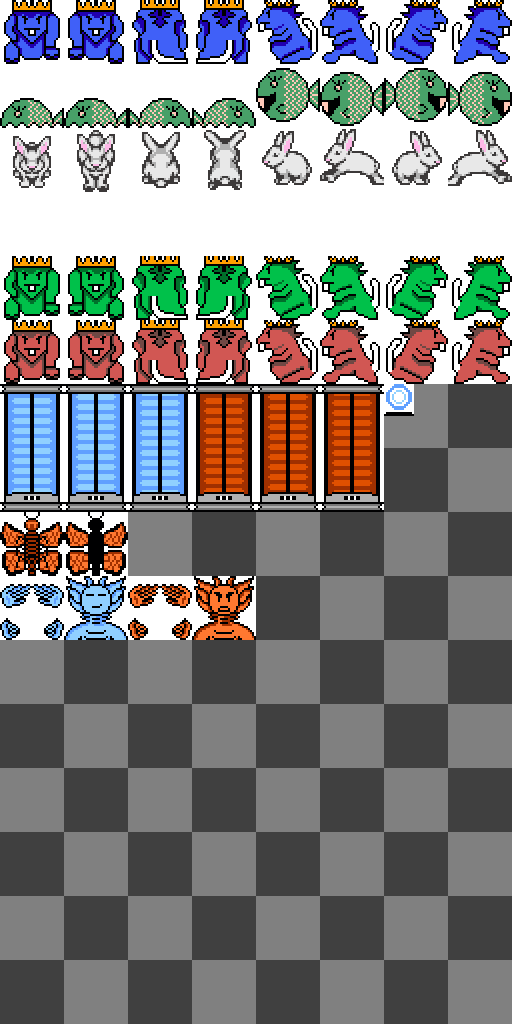
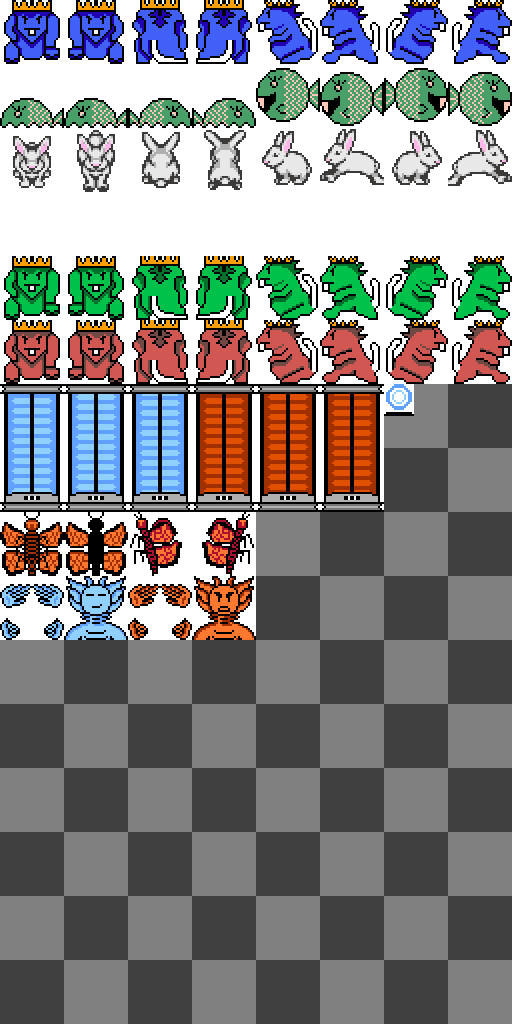
Boss 7 improvement

Changed region(s): [[0.25, 0.5, 0.5, 0.5625]]

diff --git a/AdventureBoss.cs b/AdventureBoss.cs
@@ -468,7 +468,9 @@ namespace aspectstar2
 
     public class AdventureBoss7 : AdventureEnemy
     {
-        bool forward = true;
+        //bool forward = true;
+        Master.Directions stableDir = Master.Directions.Down;
+        int timer = 0;
 
         public AdventureBoss7()
         {
@@ -498,7 +500,7 @@ namespace aspectstar2
 
             int dim_x = 64;
             int dim_y = 64;
-            int column = forward ? 0 : 1;
+            int column = (int)stableDir;
             Vector2 screen_loc = location - offset;
 
             Rectangle sourceRectangle = new Rectangle(dim_x * column, 512, dim_x, dim_y);
@@ -511,10 +513,23 @@ namespace aspectstar2
 
         public override void Update()
         {
-            if (!forward && faceDir == Master.Directions.Down)
-                forward = true;
-            else if (forward && faceDir == Master.Directions.Up)
-                forward = false;
+            int del_x = (int)(parent.player.location.X - location.X);
+            int del_y = (int)(parent.player.location.Y - location.Y);
+
+            if (Math.Abs(del_x) > Math.Abs(del_y))
+            {
+                if (del_x > 0)
+                    stableDir = Master.Directions.Right;
+                else
+                    stableDir = Master.Directions.Left;
+            }
+            else
+            {
+                if (del_y > 0)
+                    stableDir = Master.Directions.Down;
+                else
+                    stableDir = Master.Directions.Up;
+            }
 
             base.Update();
         }
